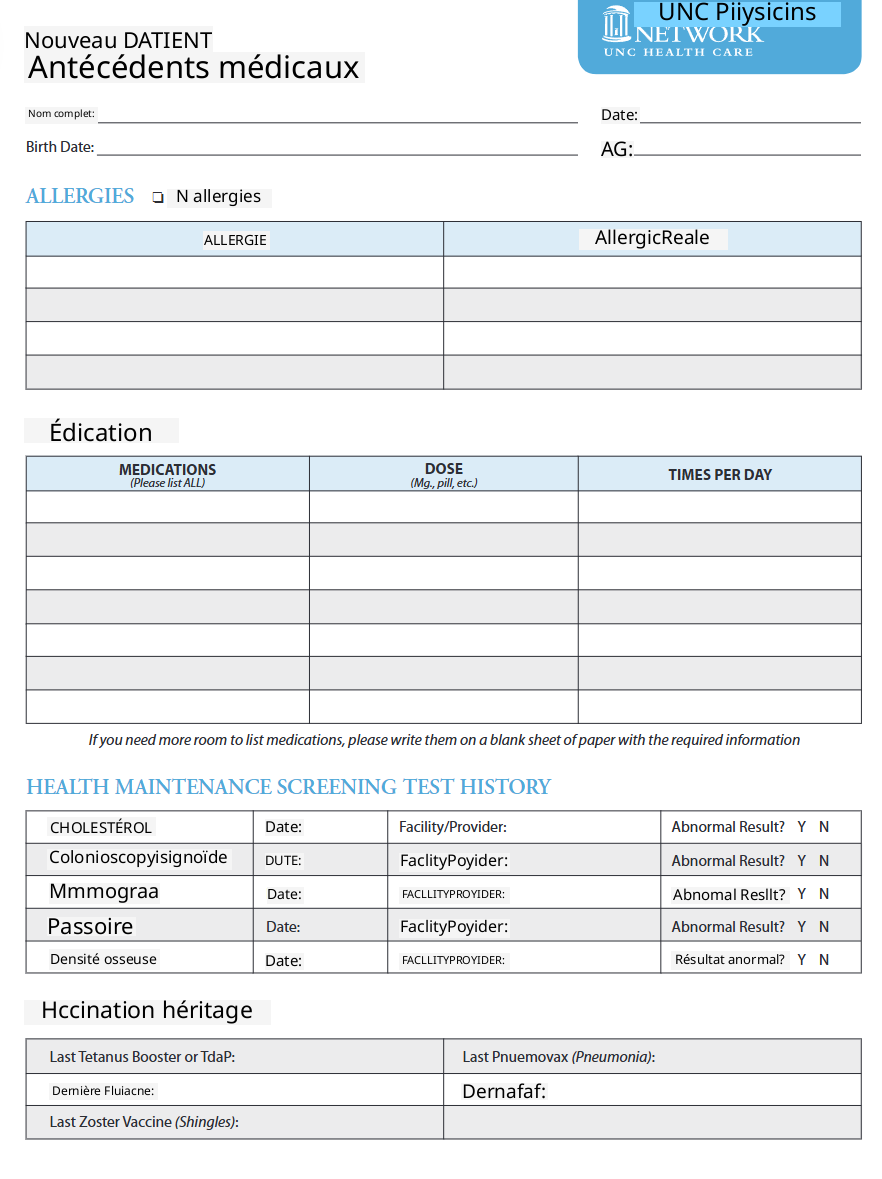
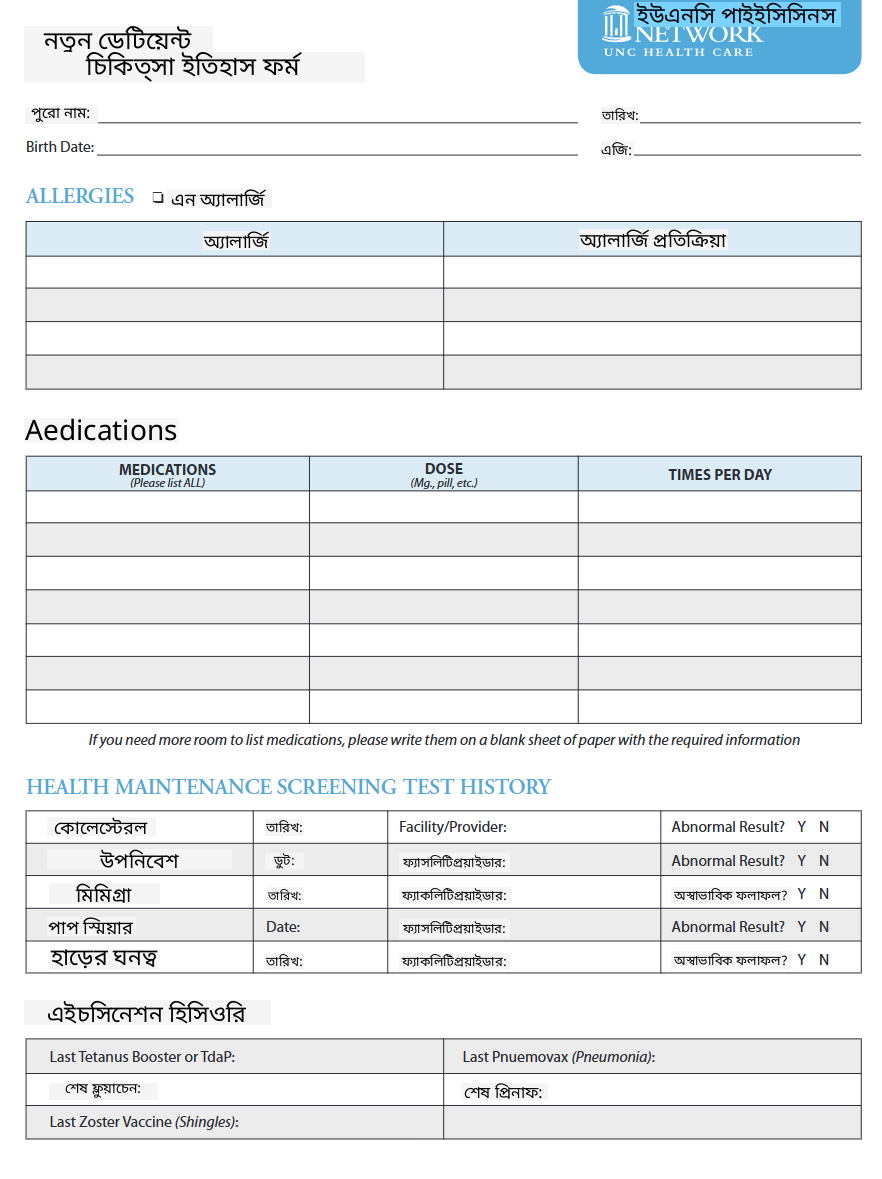
added fallback edge case for googletranslate import failing

diff --git a/backend/document_translator/main.py b/backend/document_translator/main.py
@@ -1,5 +1,5 @@
 from PIL import Image, ImageDraw, ImageFont, ImageOps, ImageEnhance
-from deep_translator import GoogleTranslator
+from googletrans import Translator
 from font_map import LANGUAGE_FONT_MAP
 import numpy as np
 import easyocr
@@ -147,10 +147,18 @@ def translate_image_pipeline(image_path, output_path, target_lang, font_map):
     extracted_text_boxes = perform_ocr(image_path, reader)
 
     # Translate text
-    translator = GoogleTranslator(source="en", target=target_lang)
-    translated_texts = [
-        translator.translate(text) for _, text in extracted_text_boxes
-    ]
+    translator = Translator()
+    translated_texts = []
+    for _, text in extracted_text_boxes:
+        if not text:
+            translated_texts.append(None)
+            continue
+        try:
+            result = translator.translate(text, src="en", dest=target_lang)
+            translated_texts.append(result.text)
+        except Exception as e:
+            print(f"[ERROR] Failed to translate '{text}': {e}")
+            translated_texts.append(None)
 
     # Set global or chosen font
     selected_lang_code = target_lang if target_lang in font_map else "en"
